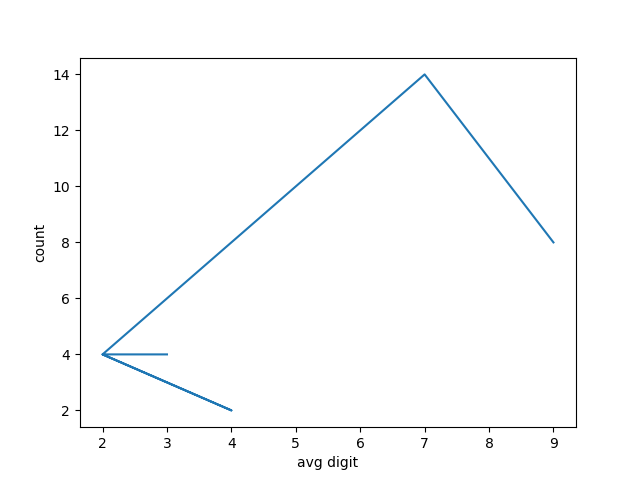
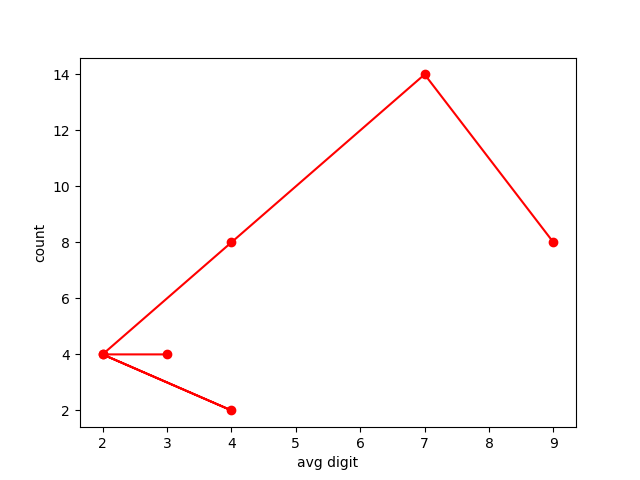
unfix graph gcd3

diff --git a/lab1_Algorithm analysis/gcd3.py b/lab1_Algorithm analysis/gcd3.py
@@ -3,6 +3,7 @@ import numpy as np
 import math
 
 testcase_file = "lab1_Algorithm analysis/testcase/Regular_Case1.txt"
+data_record = {}
 digit_record = []
 count_record = []
 count = 0
@@ -60,6 +61,7 @@ with open(testcase_file, "r") as f:
         print(f"count = {count}\n")
         count_record.append(count)
 
+        data_record[int(sum(digit_num) / len(digit_num))] = count
 
 print(digit_record)
 print(count_record)
@@ -68,7 +70,7 @@ print(count_record)
 x = np.array(digit_record)
 y = np.array(count_record)
 
-plt.plot(x,y)
+plt.plot(x,y,"-ro",)
 plt.xlabel("avg digit")
 plt.ylabel("count")
 plt.savefig("gcd3.png")
